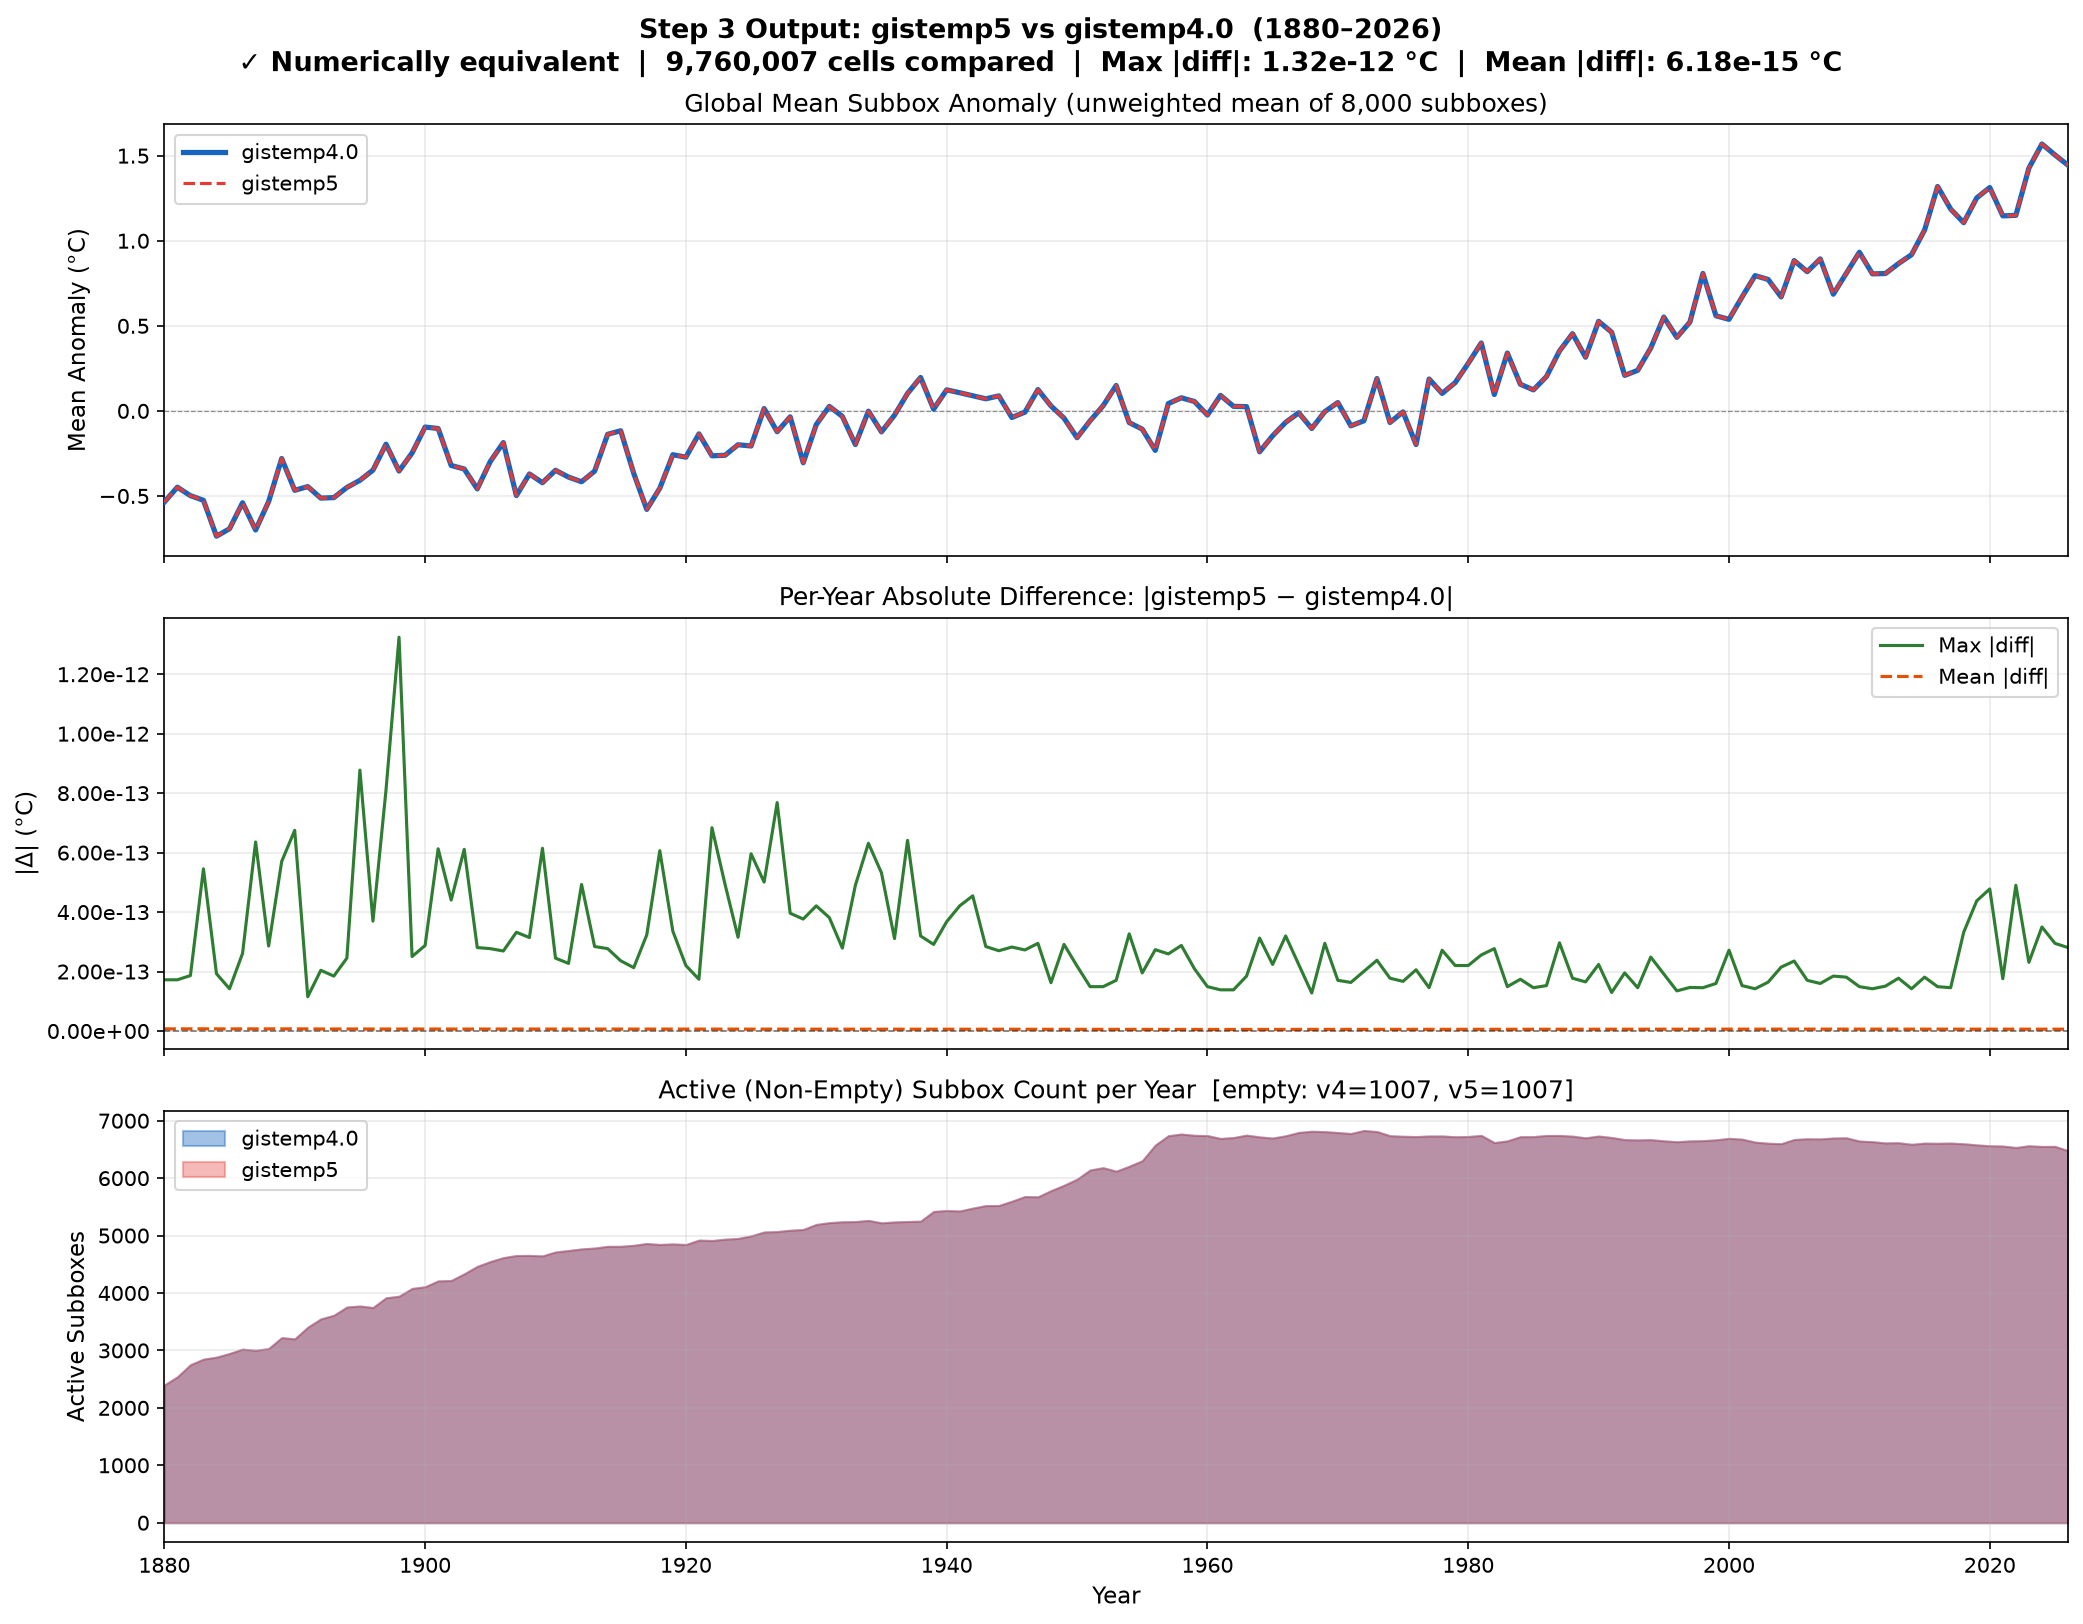
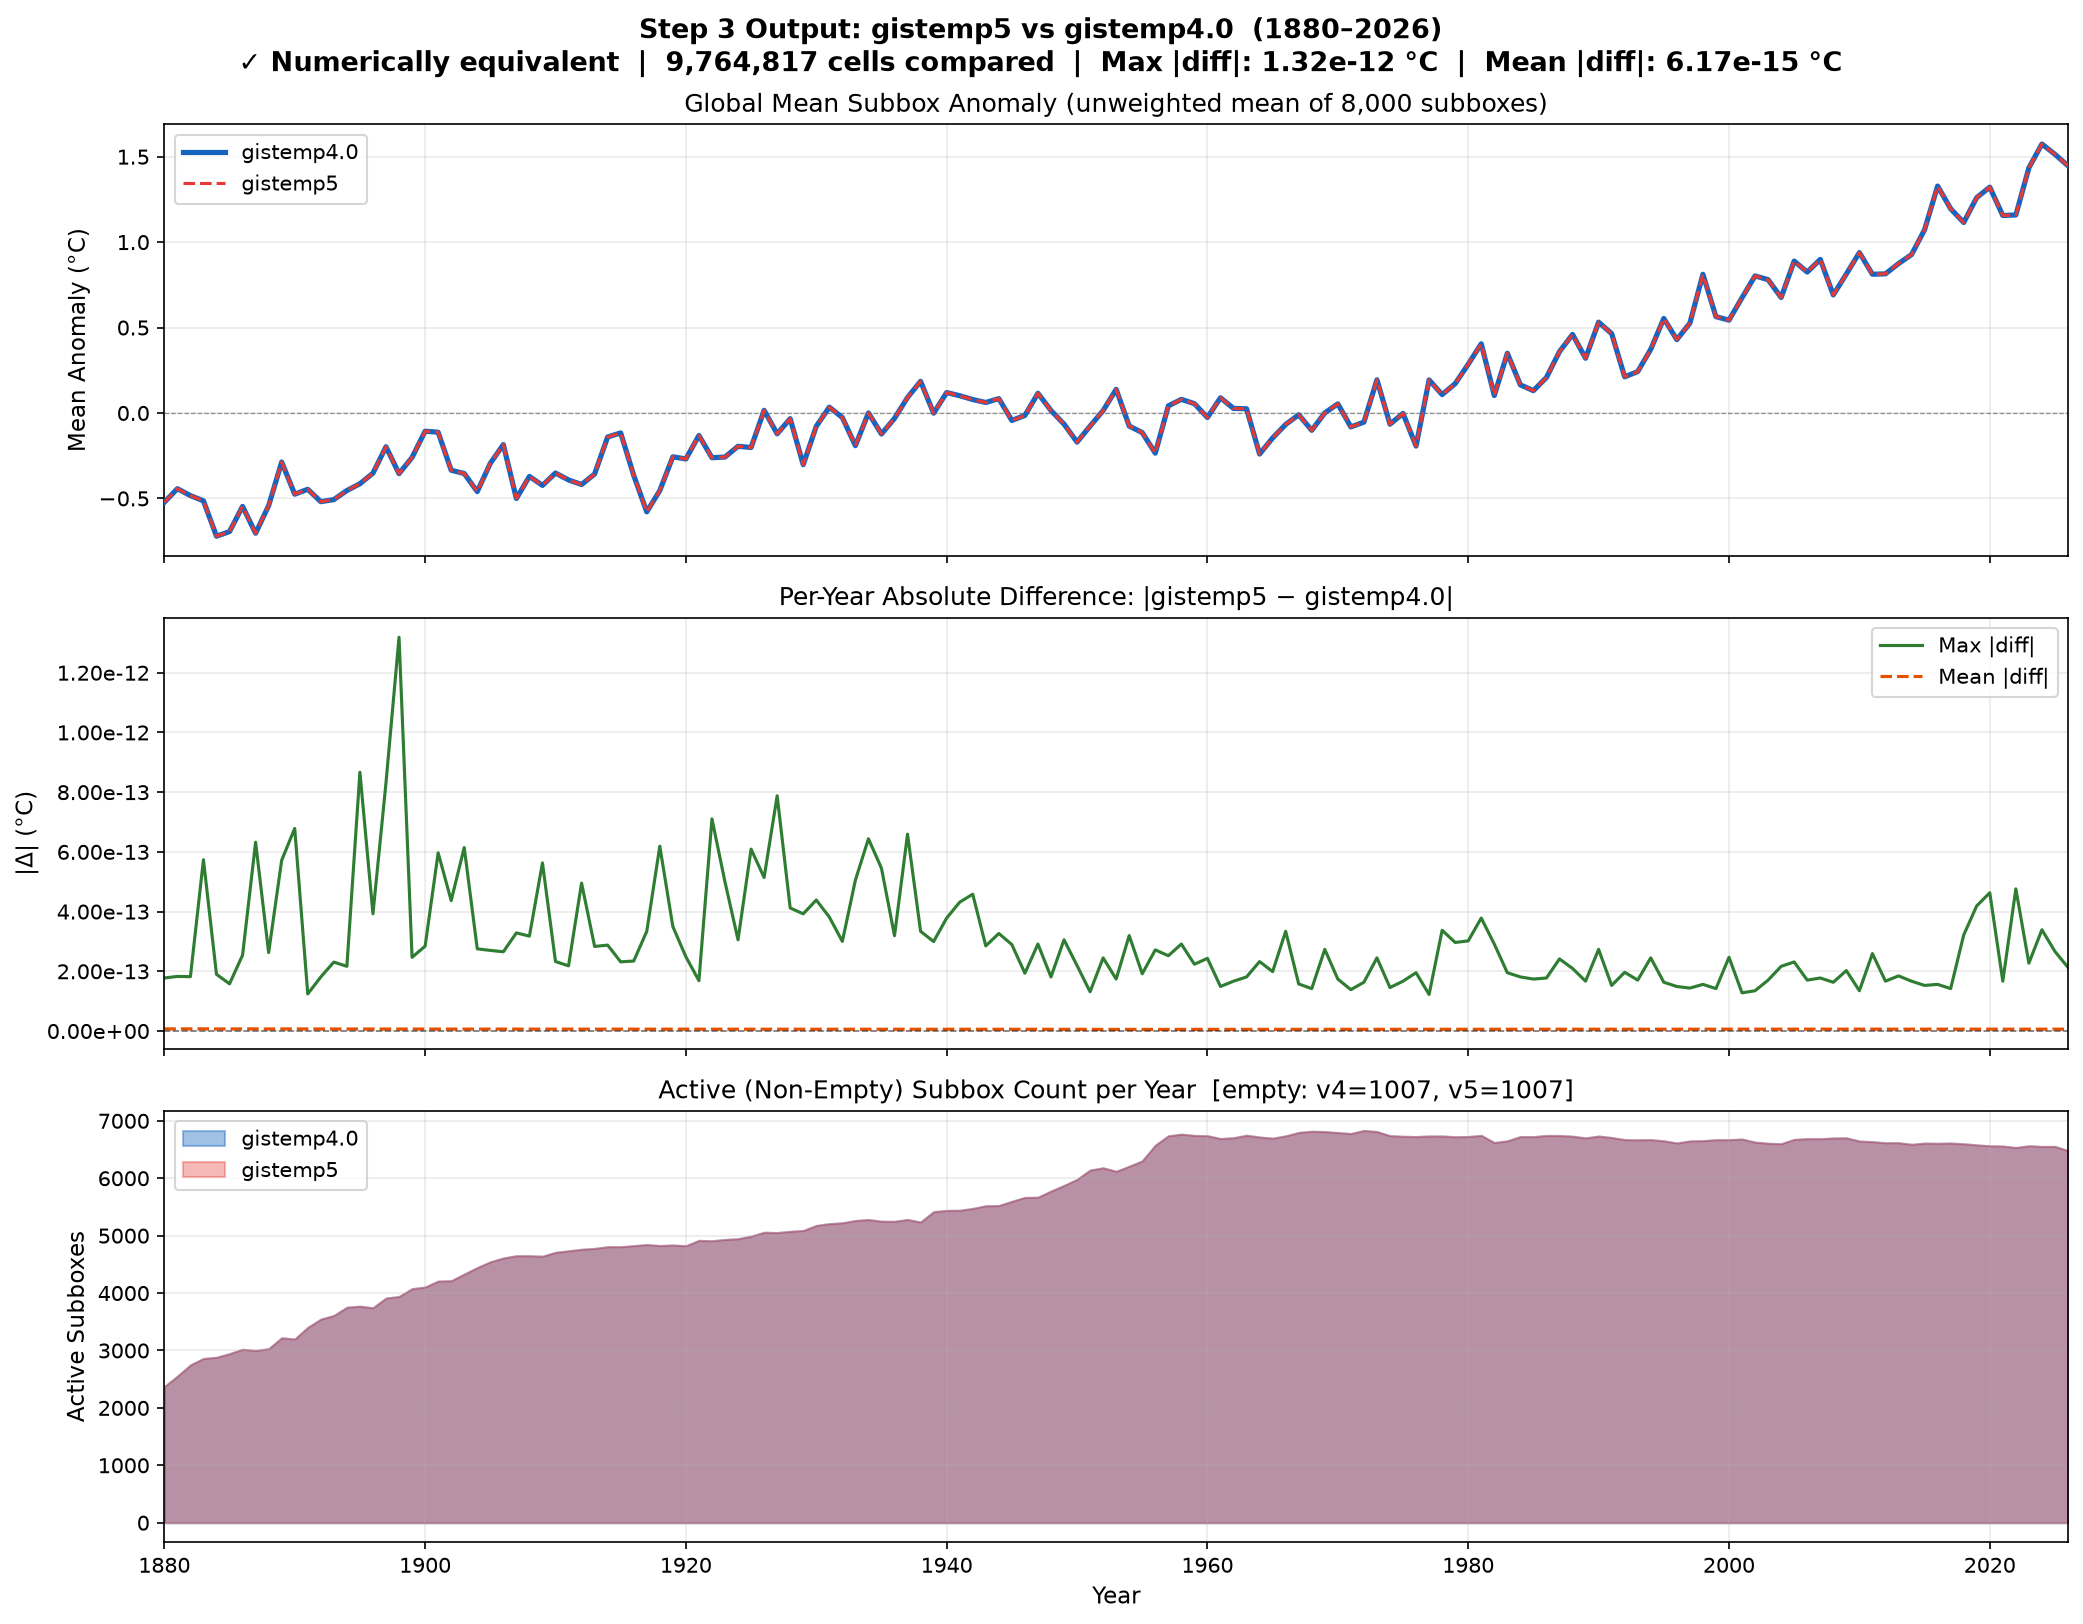
Fix v4 sibling path in compare/viz scripts; refresh all figures with 2026 data
compare_step{0,1,2,3}.py and step{0,1,2,3} visualization scripts had
gistemp4.0 referenced as a child of the repo instead of a sibling directory.
Fixed V4_DIR/V4_CACHE paths from 'gistemp4.0' to '../gistemp4.0'.

Regenerated all six PNGs with identical 2026 GHCN inputs; all steps
confirm numerically equivalent output (max diff ≤ 1.32e-12 °C).

diff --git a/visualization/step3_comparison.py b/visualization/step3_comparison.py
@@ -24,7 +24,7 @@ sys.path.insert(0, REPO_ROOT)
 from parameters.constants import START_YEAR, END_YEAR
 from utils import cache as step_cache
 
-V4_CACHE = os.path.join(REPO_ROOT, 'gistemp4.0', 'tmp', 'step3_cache.parquet')
+V4_CACHE = os.path.join(REPO_ROOT, '..', 'gistemp4.0', 'tmp', 'step3_cache.parquet')
 OUT_PATH  = os.path.join(REPO_ROOT, 'visualization', 'step3_comparison.png')
 
 _META = {'lat_s', 'lat_n', 'lon_w', 'lon_e', 'n_stations', 'station_months', 'd'}

diff --git a/testing/compare_step3.py b/testing/compare_step3.py
@@ -14,7 +14,7 @@ import numpy as np
 import pandas as pd
 
 REPO_ROOT   = os.path.dirname(os.path.dirname(os.path.abspath(__file__)))
-V4_DIR      = os.path.join(REPO_ROOT, 'gistemp4.0')
+V4_DIR      = os.path.join(REPO_ROOT, '..', 'gistemp4.0')
 V4_STEP2    = os.path.join(V4_DIR, 'tmp', 'step2_cache.parquet')
 V4_STEP3    = os.path.join(V4_DIR, 'tmp', 'step3_cache.parquet')
 DUMP_SCRIPT = os.path.join(REPO_ROOT, 'testing', '_v4_step2_dump.py')

diff --git a/visualization/step2_comparison.py b/visualization/step2_comparison.py
@@ -24,7 +24,7 @@ sys.path.insert(0, REPO_ROOT)
 from parameters.constants import START_YEAR, END_YEAR
 from utils import cache as step_cache
 
-V4_CACHE = os.path.join(REPO_ROOT, 'gistemp4.0', 'tmp', 'step2_cache.parquet')
+V4_CACHE = os.path.join(REPO_ROOT, '..', 'gistemp4.0', 'tmp', 'step2_cache.parquet')
 OUT_PATH  = os.path.join(REPO_ROOT, 'visualization', 'step2_comparison.png')
 
 META_COLS = {'Latitude', 'Longitude', '__LastGHCNYear__'}

diff --git a/visualization/step0_summary.py b/visualization/step0_summary.py
@@ -24,7 +24,7 @@ sys.path.insert(0, REPO_ROOT)
 from parameters.constants import START_YEAR, END_YEAR
 from utils import cache as step_cache
 
-V4_CACHE = os.path.join(REPO_ROOT, 'gistemp4.0', 'tmp', 'step0_cache.parquet')
+V4_CACHE = os.path.join(REPO_ROOT, '..', 'gistemp4.0', 'tmp', 'step0_cache.parquet')
 OUT_PATH  = os.path.join(REPO_ROOT, 'visualization', 'step0_summary.png')
 
 META_COLS = {'Latitude', 'Longitude', '__LastGHCNYear__'}

diff --git a/visualization/step1_summary.py b/visualization/step1_summary.py
@@ -24,7 +24,7 @@ sys.path.insert(0, REPO_ROOT)
 from parameters.constants import START_YEAR, END_YEAR
 from utils import cache as step_cache
 
-V4_CACHE = os.path.join(REPO_ROOT, 'gistemp4.0', 'tmp', 'step1_cache.parquet')
+V4_CACHE = os.path.join(REPO_ROOT, '..', 'gistemp4.0', 'tmp', 'step1_cache.parquet')
 OUT_PATH  = os.path.join(REPO_ROOT, 'visualization', 'step1_summary.png')
 
 META_COLS = {'Latitude', 'Longitude', '__LastGHCNYear__'}

diff --git a/testing/compare_step1.py b/testing/compare_step1.py
@@ -14,7 +14,7 @@ import numpy as np
 import pandas as pd
 
 REPO_ROOT   = os.path.dirname(os.path.dirname(os.path.abspath(__file__)))
-V4_DIR      = os.path.join(REPO_ROOT, 'gistemp4.0')
+V4_DIR      = os.path.join(REPO_ROOT, '..', 'gistemp4.0')
 V4_INPUT    = os.path.join(V4_DIR, 'tmp', 'input')
 V4_CACHE    = os.path.join(V4_DIR, 'tmp', 'step1_cache.parquet')
 DUMP_SCRIPT = os.path.join(REPO_ROOT, 'testing', '_v4_step1_dump.py')

diff --git a/testing/compare_step2.py b/testing/compare_step2.py
@@ -14,7 +14,7 @@ import numpy as np
 import pandas as pd
 
 REPO_ROOT   = os.path.dirname(os.path.dirname(os.path.abspath(__file__)))
-V4_DIR      = os.path.join(REPO_ROOT, 'gistemp4.0')
+V4_DIR      = os.path.join(REPO_ROOT, '..', 'gistemp4.0')
 V4_INPUT    = os.path.join(V4_DIR, 'tmp', 'input')
 V4_CACHE    = os.path.join(V4_DIR, 'tmp', 'step2_cache.parquet')
 DUMP_SCRIPT = os.path.join(REPO_ROOT, 'testing', '_v4_step2_dump.py')

diff --git a/testing/compare_step0.py b/testing/compare_step0.py
@@ -17,7 +17,7 @@ import numpy as np
 import pandas as pd
 
 REPO_ROOT = os.path.dirname(os.path.dirname(os.path.abspath(__file__)))
-V4_DIR    = os.path.join(REPO_ROOT, 'gistemp4.0')
+V4_DIR    = os.path.join(REPO_ROOT, '..', 'gistemp4.0')
 V4_INPUT  = os.path.join(V4_DIR, 'tmp', 'input')
 V4_CACHE  = os.path.join(V4_DIR, 'tmp', 'step0_cache.parquet')
 DUMP_SCRIPT = os.path.join(REPO_ROOT, 'testing', '_v4_dump.py')
